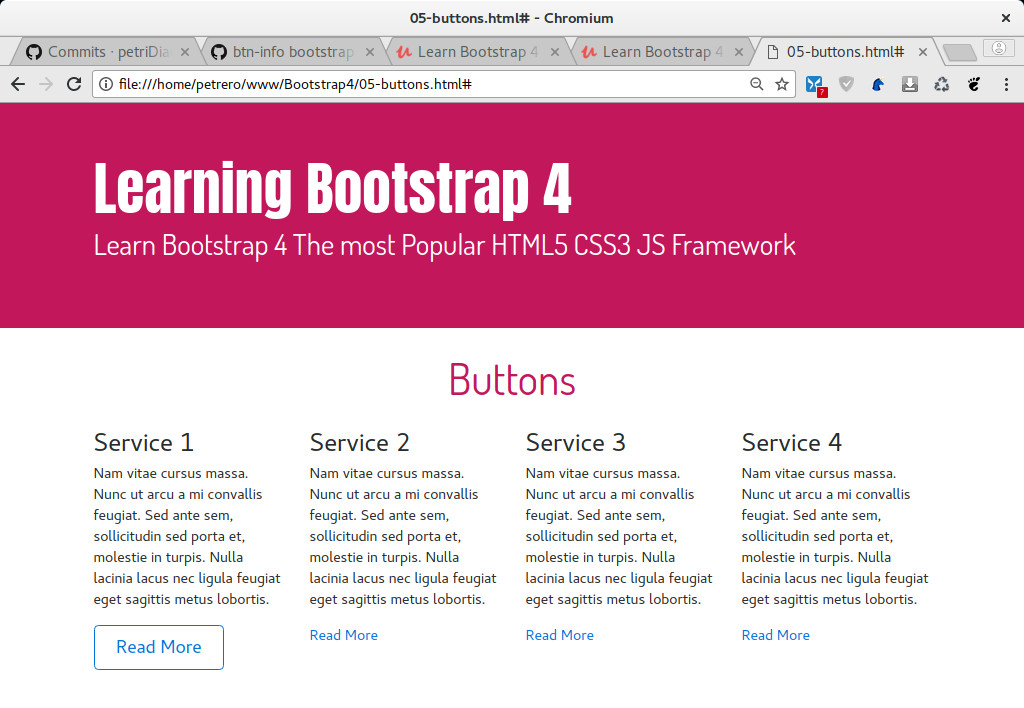
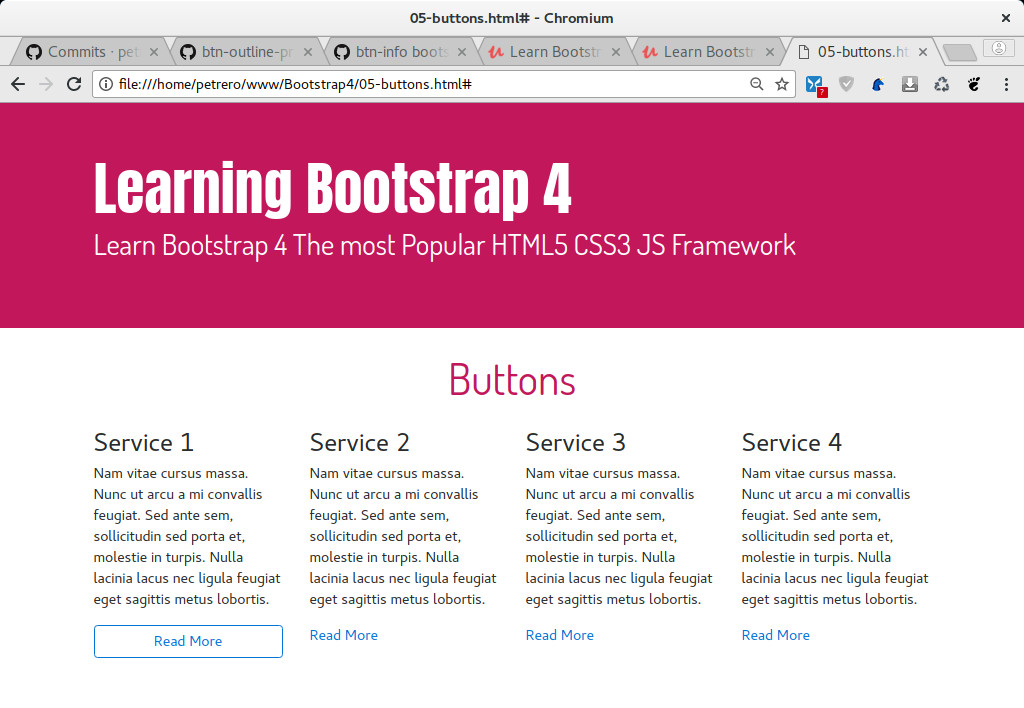
Make the button to take all the content that is available.

Changed region(s): [[0.125, 0.0311, 0.9062, 0.0932], [0.0938, 0.9011, 0.2188, 0.9322]]

diff --git a/05-buttons.html b/05-buttons.html
@@ -27,7 +27,7 @@
             <div class="col-6 col-sm-3">
                   <h3>Service 1</h3>
                   <p>Nam vitae cursus massa. Nunc ut arcu a mi convallis feugiat. Sed ante sem, sollicitudin sed porta et, molestie in turpis. Nulla lacinia lacus nec ligula feugiat eget sagittis metus lobortis.</p>
-                  <a href="#" class="btn btn-lg btn-outline-primary">Read More</a>
+                  <a href="#" class="btn btn-block btn-outline-primary">Read More</a>
                
                     
             </div>
